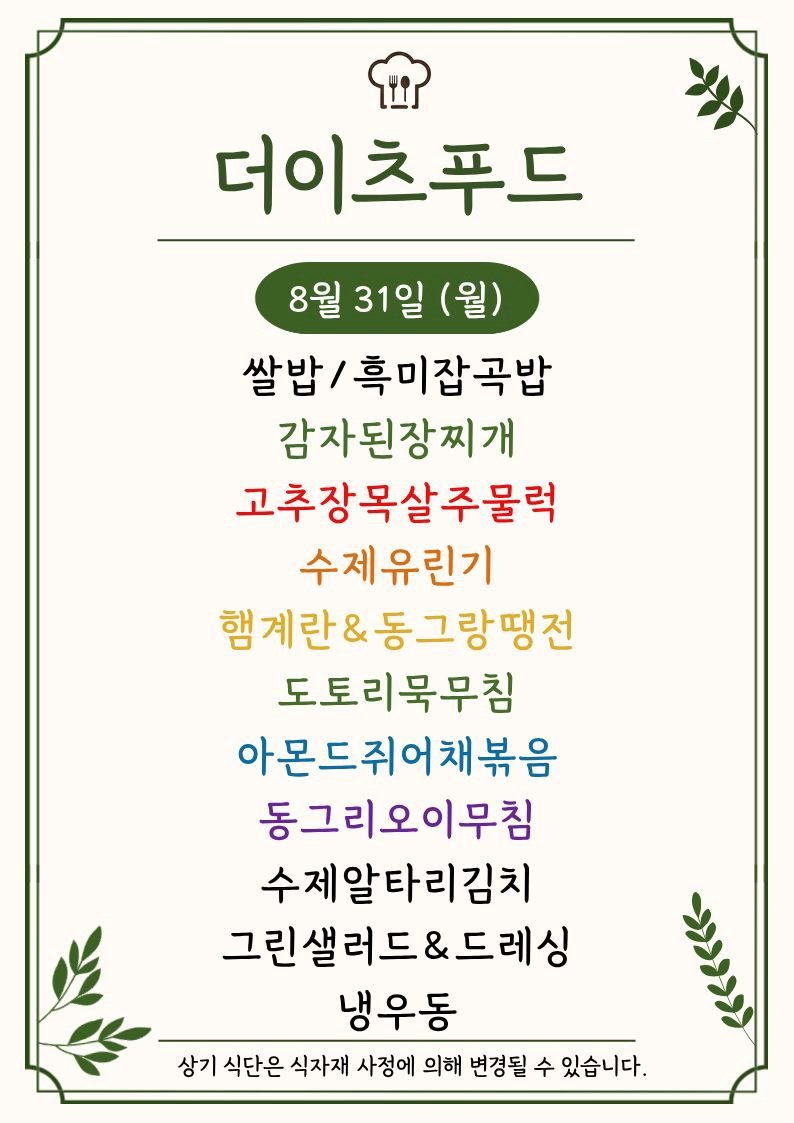
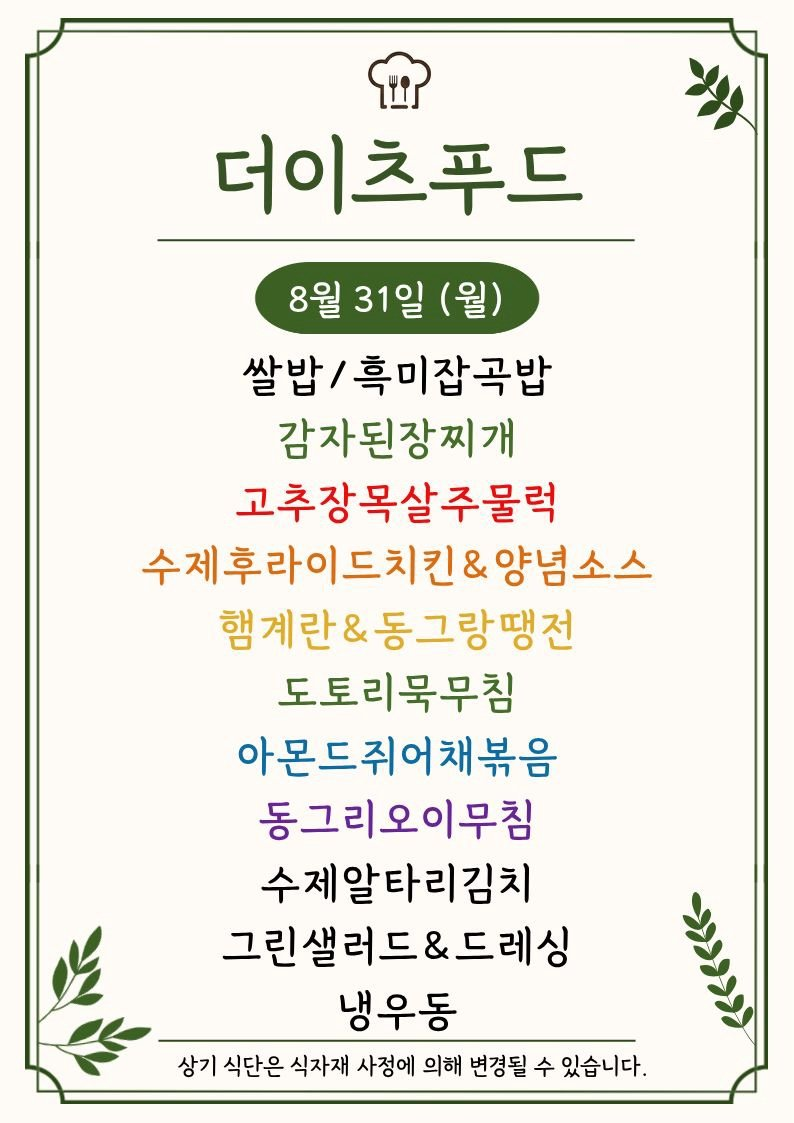
Update menu board assets

Changed region(s): [[0.1814, 0.4675, 0.8161, 0.5298]]

diff --git a/menu-today/index.html b/menu-today/index.html
@@ -209,7 +209,7 @@
 
     <section class="meta-bar">
       <div class="meta-card"><div class="meta-label">기준 날짜</div><div class="meta-value">2026년 8월 31일 월요일</div></div>
-      <div class="meta-card"><div class="meta-label">최종 가져온 시간</div><div class="meta-value">2026-08-31 10:18:05</div></div>
+      <div class="meta-card"><div class="meta-label">최종 가져온 시간</div><div class="meta-value">2026-08-31 10:33:30</div></div>
       <div class="meta-card"><div class="meta-label">확인 완료</div><div class="meta-value">9개 식당</div></div>
       <div class="meta-card"><div class="meta-label">준비중</div><div class="meta-value">3개 채널</div></div>
     </section>
@@ -245,7 +245,7 @@
             <div class="sub">가산 어반워크2</div>
           </div>
         </div>
-        <div class="menu-inline-image"><img src="./images/babon.png" alt="밥(온) 구내식당 식단 이미지"></div><ul><li>윈쌀밥 / 끔은쌀잡곡밥</li><li>돼지고기김지찌개</li><li>생선까스 / 타르타르</li><li>한식버섯잡재</li><li>고기*김치손만두찜</li><li>깜자채햄야재볶음</li><li>지커리겉절이</li><li>배주끝설이김지</li><li>양배주샐러드</li><li>단호박식 혜 / 후식과자</li><li>힌쌀밥 / 검은쌀잡</li><li>고바</li></ul>
+        <div class="menu-inline-image"><img src="./images/babon.png" alt="밥(온) 구내식당 식단 이미지"></div><ul><li>윈쌀밥 / 끔은쌀잡곡밥</li><li>돼지고기김지찌개</li><li>생선까스 / 타르타르S</li><li>한식버섯잡재</li><li>고기*김치손만두찜</li><li>깜자채햄야재볶음</li><li>지커리겉절이</li><li>배주끝설이김지</li><li>양배주샐러드</li><li>단호박식 혜 / 후식과자</li><li>힌쌀밥 / 검은쌀잡</li><li>고바</li></ul>
       </article>
 
       <article class="restaurant-card">

diff --git a/guro-menu/index.html b/guro-menu/index.html
@@ -32,7 +32,7 @@
   </header>
   <section class="meta">
     <div><small>기준 날짜</small><strong>2026년 8월 31일 월요일</strong></div>
-    <div><small>최종 갱신</small><strong>2026-08-31 10:18:18</strong></div>
+    <div><small>최종 갱신</small><strong>2026-08-31 10:33:47</strong></div>
     <div><small>등록 식당</small><strong>5개</strong></div>
   </section>
   <div class="notice">공개 카카오 채널의 메뉴 이미지를 자동 수집하고 OCR로 정리합니다. 텍스트에 오타가 있을 수 있으니 식단 이미지를 함께 확인해 주세요.</div>
@@ -76,7 +76,7 @@
         </div>
         <img class="menu-image" src="./images/the-eats-food.png" alt="더이츠푸드 식단 이미지" loading="lazy">
         
-        <ul><li>1 은은</li><li>더 0 긋표ㄷ</li><li>쌀밥/흑미잡곡밥</li><li>감자된장찌개</li><li>고추장목살주물럭</li><li>수제유린기</li><li>도토리묵무침</li><li>아몬드쥐어채볶음</li><li>동그리오이무침</li><li>수제알타리김치</li><li>그린샐러드&amp;드레싱 Y</li><li>냉우동</li></ul>
+        <ul><li>더 이 2 ㄷ</li><li>쌀밥/흑미잡곡밥</li><li>감자된장찌개</li><li>고추장목살주물럭</li><li>수제후라이드치킨&amp;양념소스</li><li>도토리묵무침</li><li>아몬드쥐어채볶음</li><li>동그리오이무침</li><li>수제알타리김치 4</li><li>그린샐러드&amp;드레싱 %</li><li>냉우동</li></ul>
       </article>
 
       <article class="restaurant-card">
